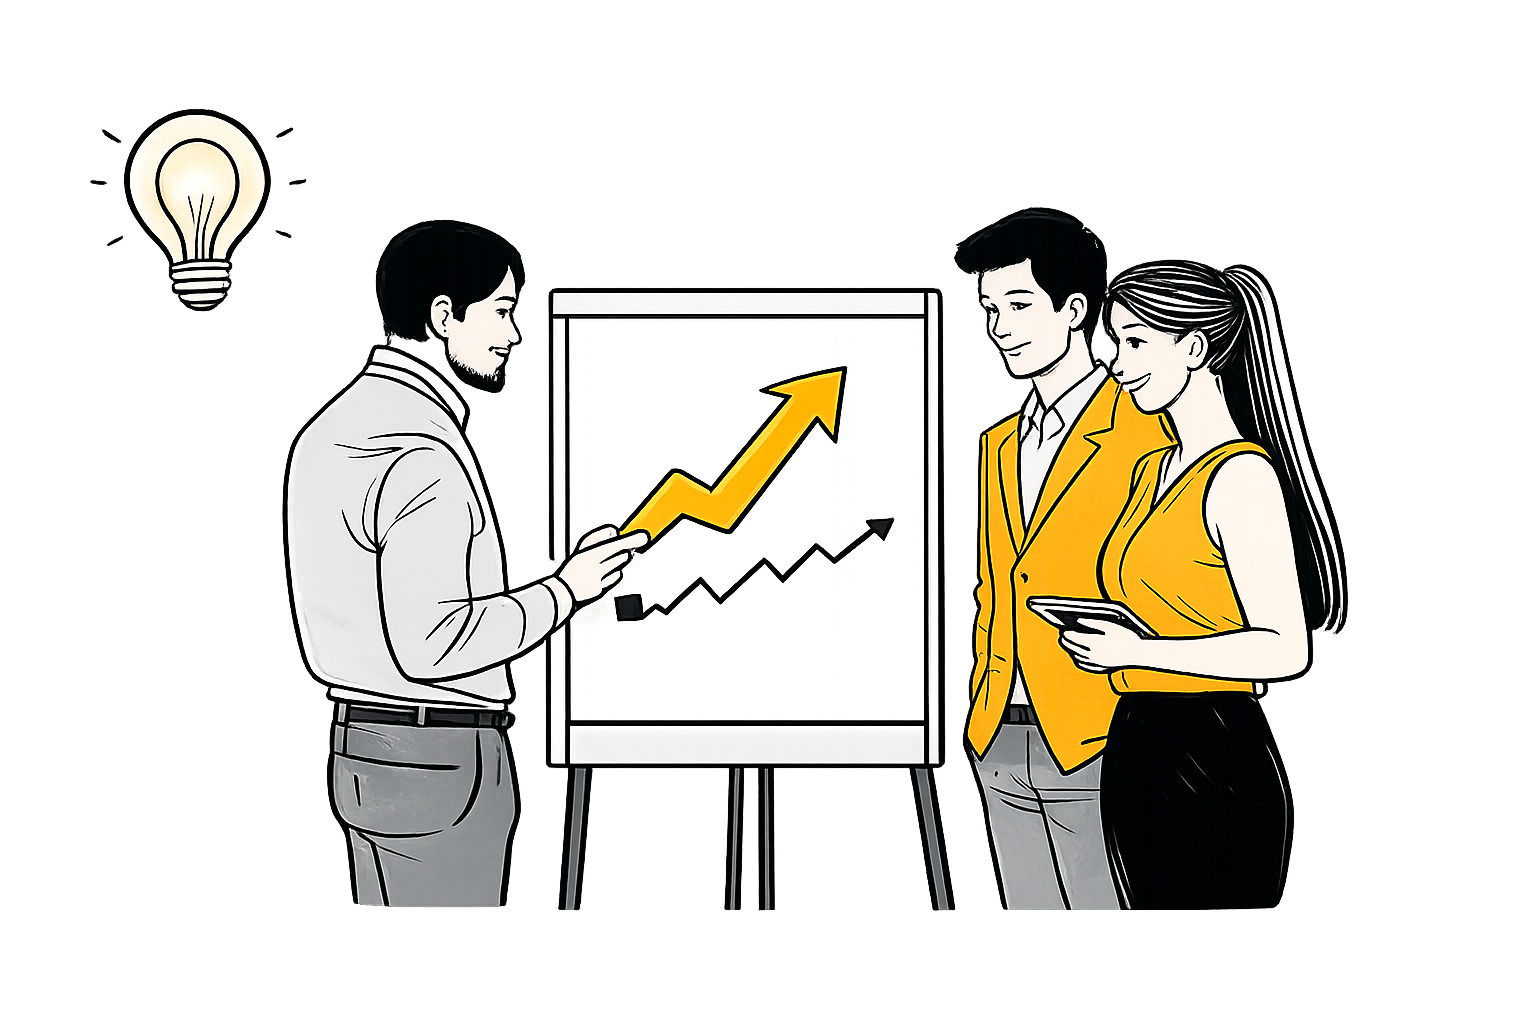
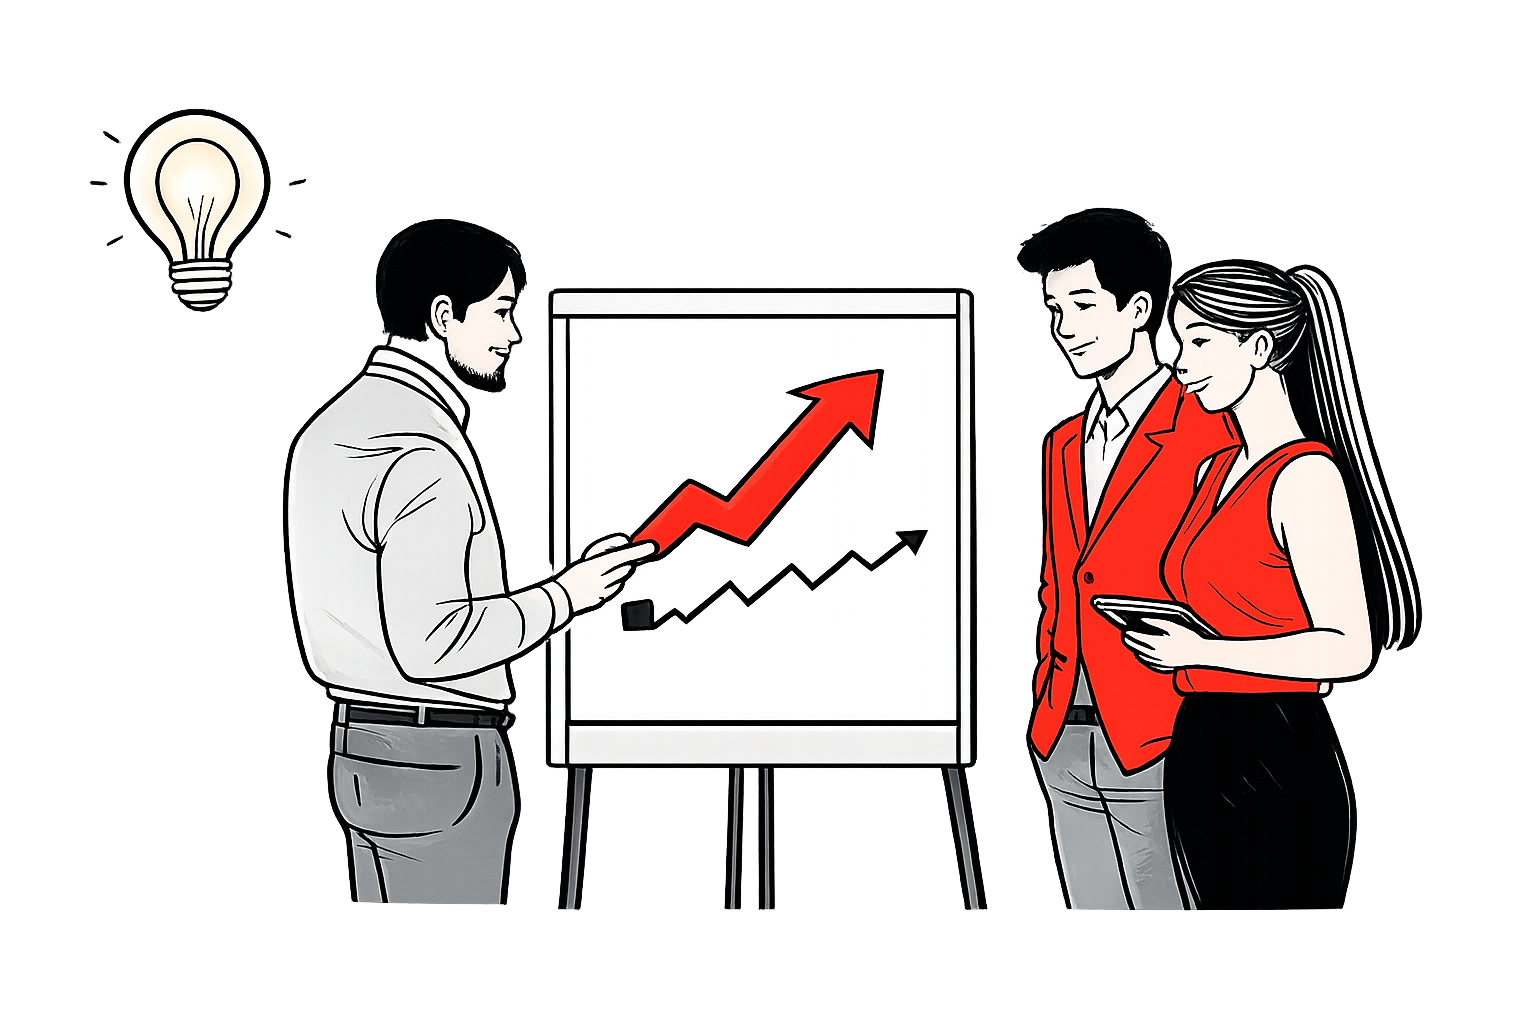
timeline ball end limit change

diff --git a/app/styles/sections.css b/app/styles/sections.css
@@ -2198,6 +2198,11 @@
   justify-content: center;
 }
 
+.work-phase-media--soft-oval {
+  position: relative;
+  isolation: isolate;
+}
+
 .work-phase-left.work-phase-with-media .work-phase-copy {
   order: 1;
 }
@@ -2219,6 +2224,49 @@
   width: min(100%, 430px);
   aspect-ratio: 4 / 3;
   object-fit: cover;
+}
+
+.work-phase-media--soft-oval img {
+  width: min(112%, 520px);
+  aspect-ratio: 1.72 / 1;
+  border-radius: 48% 52% 46% 54% / 58% 48% 52% 42%;
+  object-position: center;
+  filter: drop-shadow(0 24px 54px rgba(32, 54, 79, 0.12));
+  mask-image: radial-gradient(
+    ellipse 82% 64% at center,
+    #000 54%,
+    rgba(0, 0, 0, 0.9) 66%,
+    rgba(0, 0, 0, 0.5) 80%,
+    rgba(0, 0, 0, 0.14) 92%,
+    transparent 100%
+  );
+  -webkit-mask-image: radial-gradient(
+    ellipse 82% 64% at center,
+    #000 54%,
+    rgba(0, 0, 0, 0.9) 66%,
+    rgba(0, 0, 0, 0.5) 80%,
+    rgba(0, 0, 0, 0.14) 92%,
+    transparent 100%
+  );
+}
+
+.work-phase-media--soft-oval::after {
+  position: absolute;
+  inset: 50%;
+  z-index: 1;
+  width: min(112%, 520px);
+  aspect-ratio: 1.72 / 1;
+  background: radial-gradient(
+    ellipse 82% 64% at center,
+    transparent 55%,
+    rgba(250, 250, 250, 0.2) 70%,
+    rgba(250, 250, 250, 0.72) 86%,
+    var(--work-bg) 100%
+  );
+  border-radius: 48% 52% 46% 54% / 58% 48% 52% 42%;
+  content: "";
+  pointer-events: none;
+  transform: translate(-50%, -50%);
 }
 
 .work-phase-kicker {

diff --git a/app/how-we-work/_components/how-we-work-timeline.tsx b/app/how-we-work/_components/how-we-work-timeline.tsx
@@ -17,6 +17,7 @@ const phases: {
   image?: {
     src: string;
     alt: string;
+    variant?: "soft-oval";
   };
 }[] = [
   {
@@ -33,6 +34,7 @@ const phases: {
     image: {
       src: "/business_diagnose_image.png",
       alt: "Leadership team reviewing diagnostic insights",
+      variant: "soft-oval",
     },
     icon: <Search size={PHASE_ICON_SIZE} strokeWidth={PHASE_ICON_STROKE} aria-hidden="true" />,
   },
@@ -171,9 +173,14 @@ export function HowWeWorkTimeline() {
 
   const ballSize = 32;
   const stageHeight = Math.max(360, viewportHeight - headerHeight);
+  const timelineEndTop = clamp(
+    stageHeight * 0.78,
+    ballSize / 2,
+    stageHeight - ballSize / 2 - 24,
+  );
   const ballScrollProgress = clamp(progress / 0.88, 0, 1);
   const ballProgress = ballScrollProgress * ballScrollProgress * (3 - 2 * ballScrollProgress);
-  const ballTop = ballSize / 2 + ballProgress * (stageHeight - ballSize);
+  const ballTop = ballSize / 2 + ballProgress * (timelineEndTop - ballSize / 2);
   const lineHeight = ballTop;
   const scrollHintOpacity = clamp(1 - progress / 0.035, 0, 1);
   const contentProgress = clamp((progress + 0.04) / 0.92, 0, 1);
@@ -243,7 +250,11 @@ export function HowWeWorkTimeline() {
                   }}
                 >
                   {phase.image ? (
-                    <div className="work-phase-media">
+                    <div
+                      className={`work-phase-media${
+                        phase.image.variant ? ` work-phase-media--${phase.image.variant}` : ""
+                      }`}
+                    >
                       <img src={phase.image.src} alt={phase.image.alt} />
                     </div>
                   ) : null}